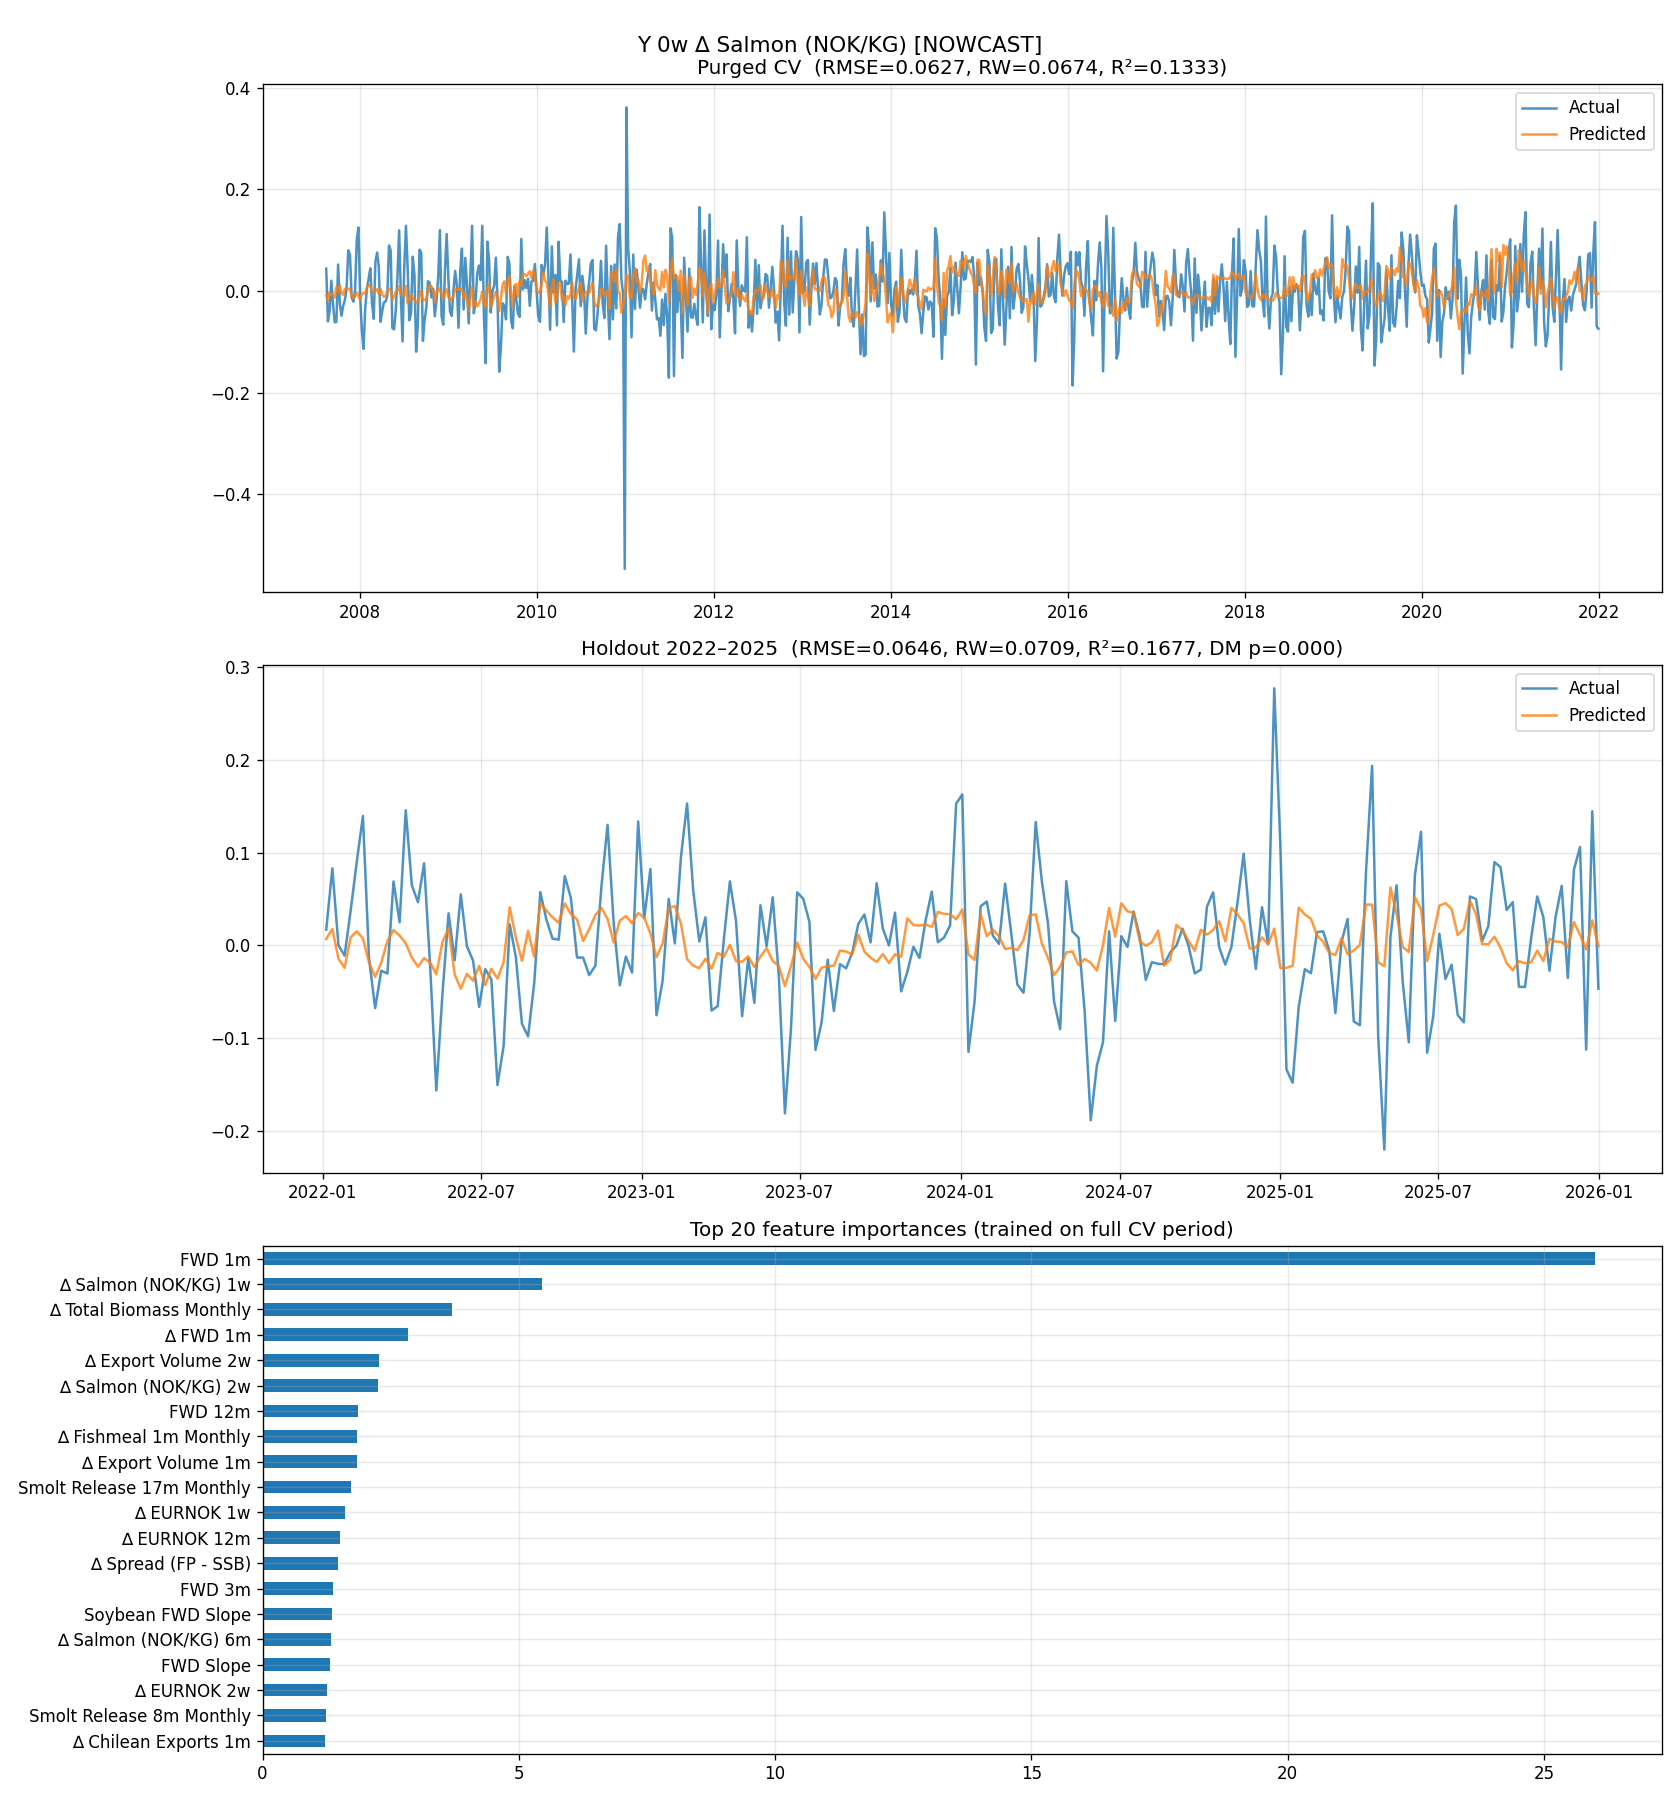
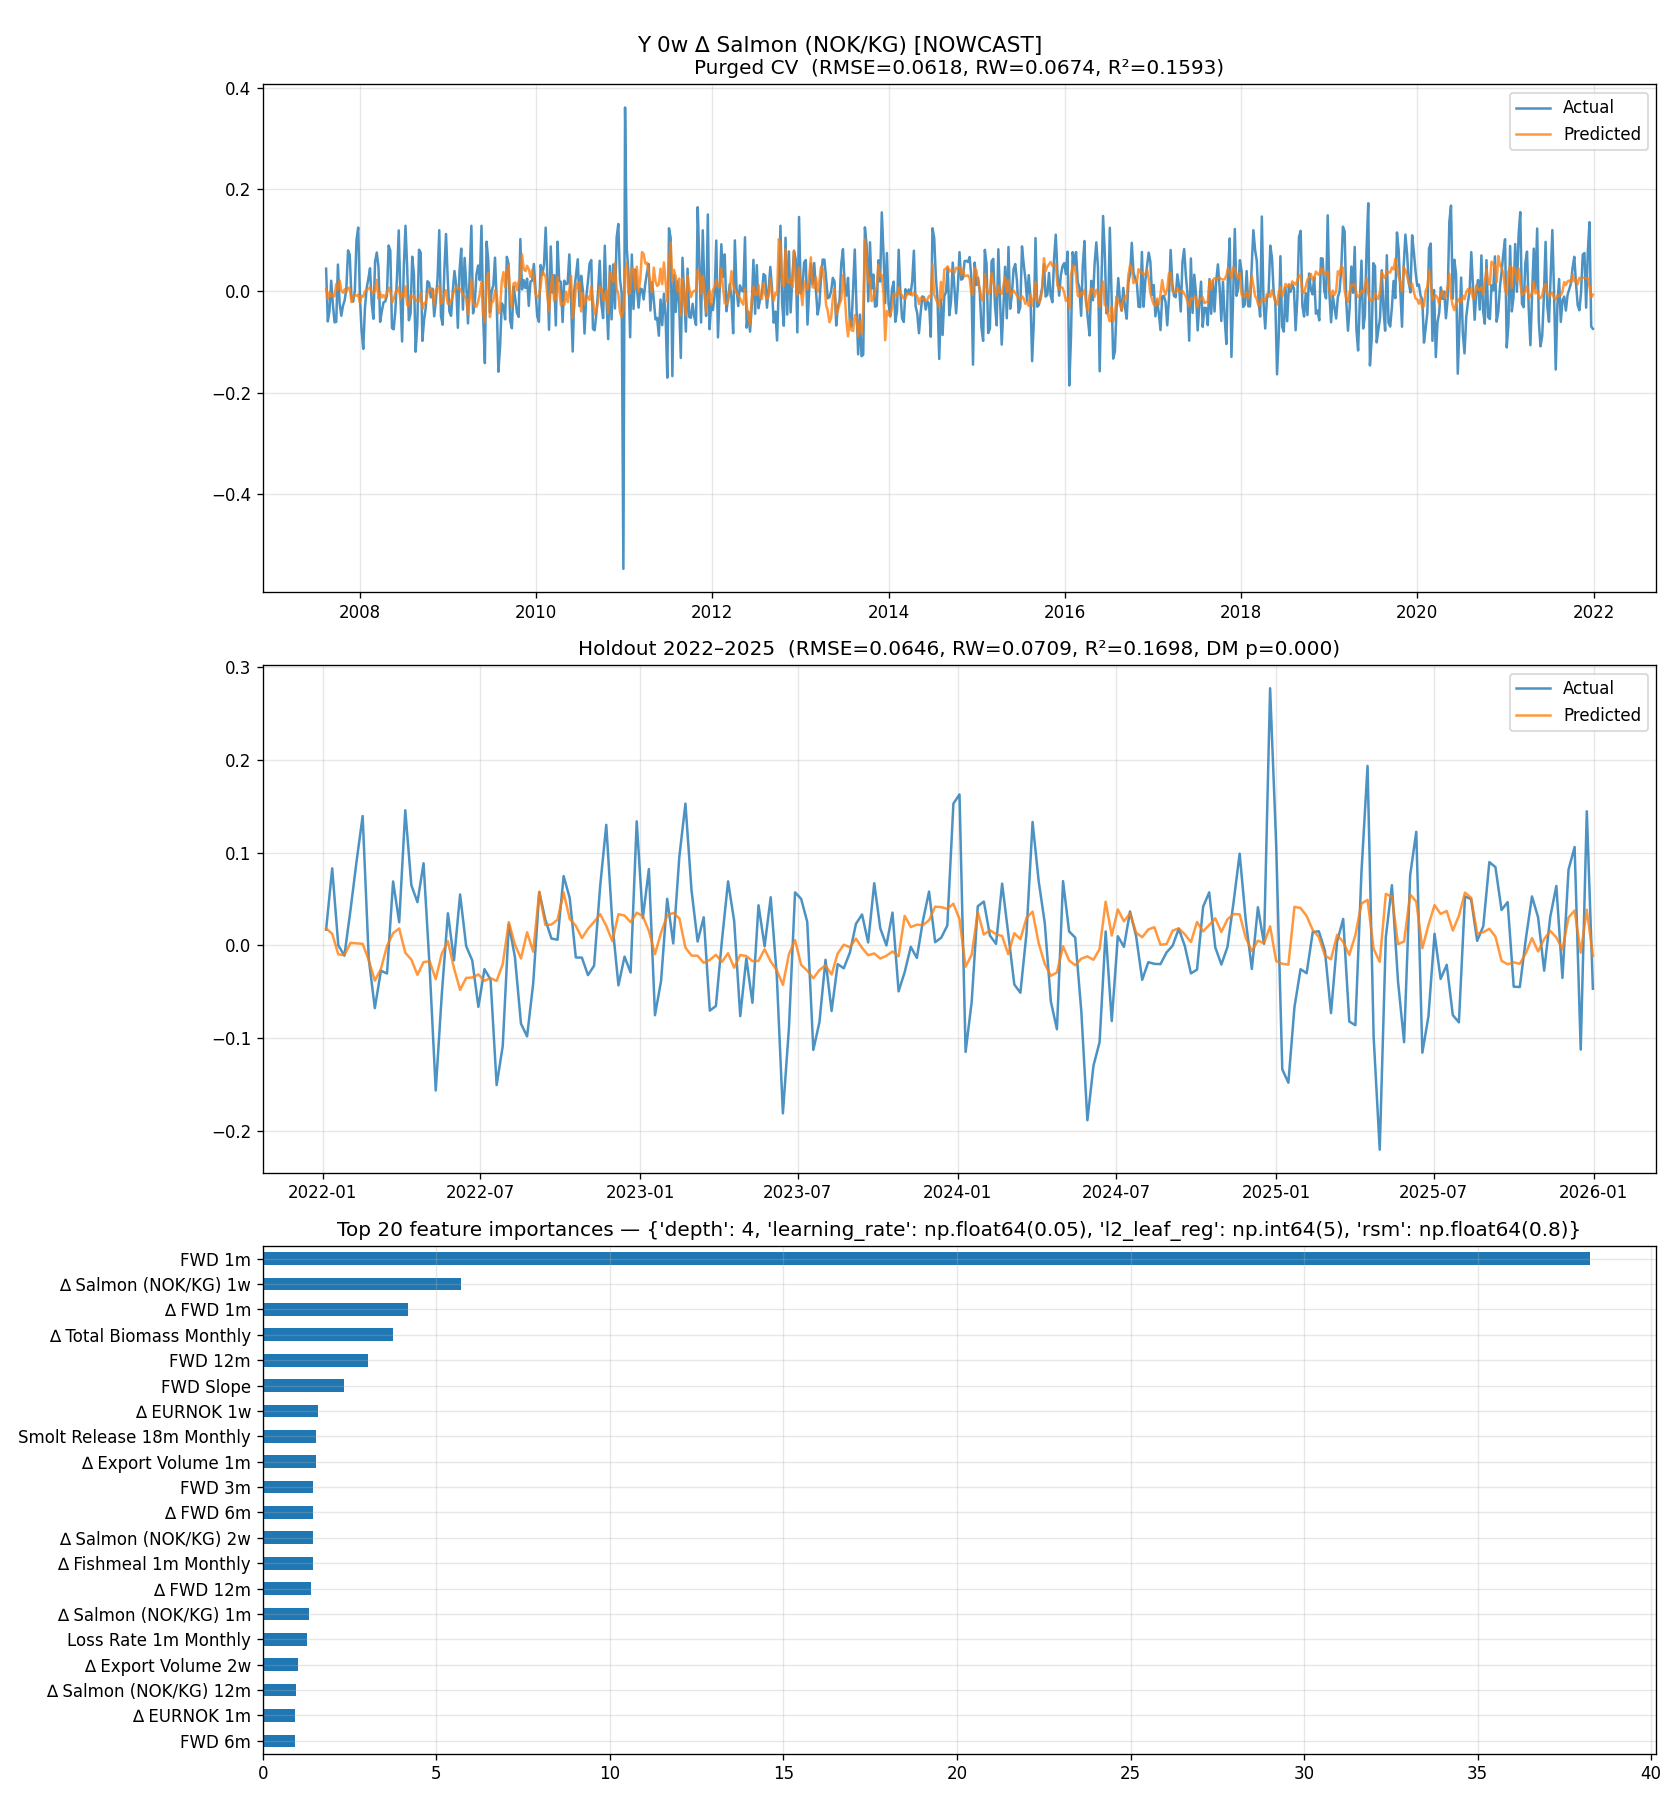
catboost v4

diff --git a/catboost_model.py b/catboost_model.py
@@ -1,7 +1,7 @@
 ##
 #  CatBoost model — all Y horizons
-#  Purged walk-forward CV (folds and purge window adjusted per horizon)
-#  Includes: random walk baseline, Diebold-Mariano test, early stopping
+#  Purged walk-forward CV with early stopping
+#  Includes: random walk baseline, Diebold-Mariano test
 #  Final holdout: 2022–2025
 #
 #  Note: Y 0w is a nowcast (S_t and F_t are Wednesday closes, simultaneously
@@ -33,41 +33,34 @@ os.makedirs("Results", exist_ok=True)
 
 ## ── Horizon config ───────────────────────────────────────────────────────────
 HORIZON_CONFIG = {
-    "0w":  {"purge_weeks":  0, "n_folds": 10},
-    "1w":  {"purge_weeks":  1, "n_folds": 10},
-    "2w":  {"purge_weeks":  2, "n_folds": 10},
-    "1m":  {"purge_weeks":  4, "n_folds": 10},
-    "3m":  {"purge_weeks": 13, "n_folds":  8},
-    "6m":  {"purge_weeks": 26, "n_folds":  6},
-    "12m": {"purge_weeks": 52, "n_folds":  4},  # Note: only ~2 valid CV folds — CV R² unreliable; rely on holdout
+    "0w":  {"purge_weeks":  0, "n_folds": 10, "depth": 4},
+    "1w":  {"purge_weeks":  1, "n_folds": 10, "depth": 4},
+    "2w":  {"purge_weeks":  2, "n_folds": 10, "depth": 4},
+    "1m":  {"purge_weeks":  4, "n_folds": 10, "depth": 5},
+    "3m":  {"purge_weeks": 13, "n_folds":  8, "depth": 5},
+    "6m":  {"purge_weeks": 26, "n_folds":  6, "depth": 6},
+    "12m": {"purge_weeks": 52, "n_folds":  4, "depth": 5},  # only ~2 valid CV folds — rely on holdout
 }
 
-def parse_horizon(target):
-    m = re.search(r"Y (\d+(?:w|m)) ", target)
-    return m.group(1) if m else "0w"
-
 ## ── CatBoost settings ────────────────────────────────────────────────────────
-CB_PARAMS = dict(
-    iterations          = 1000,     # higher ceiling; early stopping will cut this
-    learning_rate       = 0.05,
-    depth               = 6,
+CB_BASE = dict(
+    iterations          = 1000,
     loss_function       = "RMSE",
     random_seed         = 42,
     verbose             = False,
     allow_writing_files = False,
 )
 EARLY_STOP_ROUNDS = 50
-VAL_FRAC          = 0.15            # fraction of training used as early-stopping validation
+VAL_FRAC          = 0.15
 
-## ── Diebold-Mariano test (MSE loss, RW predicts 0 log return) ────────────────
+def parse_horizon(target):
+    m = re.search(r"Y (\d+(?:w|m)) ", target)
+    return m.group(1) if m else "0w"
+
+## ── Diebold-Mariano test ─────────────────────────────────────────────────────
 def diebold_mariano(actual, pred_model):
-    """
-    H0: equal MSE vs random walk (which predicts 0 log return).
-    Negative DM stat → model is more accurate than RW.
-    Returns (dm_stat, p_value).
-    """
     e_model = actual - pred_model
-    e_rw    = actual                        # RW error = actual - 0
+    e_rw    = actual
     d       = e_model**2 - e_rw**2
     n       = len(d)
     dm_stat = np.mean(d) / (np.std(d, ddof=1) / np.sqrt(n))
@@ -75,11 +68,7 @@ def diebold_mariano(actual, pred_model):
     return dm_stat, p_value
 
 ## ── Purged walk-forward CV ───────────────────────────────────────────────────
-def purged_wf_cv(data, target, features, purge_weeks, n_folds):
-    """
-    Expanding-window walk-forward CV with purging and early stopping.
-    Early stopping uses the last VAL_FRAC of each training slice as validation.
-    """
+def purged_wf_cv(data, target, features, purge_weeks, n_folds, depth):
     n         = len(data)
     fold_size = n // n_folds
     results   = []
@@ -98,15 +87,14 @@ def purged_wf_cv(data, target, features, purge_weeks, n_folds):
         if len(train) < 50 or len(test) == 0:
             continue
 
-        # Early stopping: hold out last VAL_FRAC of training
         val_size    = max(int(len(train) * VAL_FRAC), 10)
         train_inner = train.iloc[:-val_size]
         val_inner   = train.iloc[-val_size:]
 
-        model = CatBoostRegressor(**CB_PARAMS)
+        model = CatBoostRegressor(**CB_BASE, depth=depth)
         model.fit(
             train_inner[features], train_inner[target],
-            eval_set   = (val_inner[features].values, val_inner[target].values),
+            eval_set              = (val_inner[features].values, val_inner[target].values),
             early_stopping_rounds = EARLY_STOP_ROUNDS,
         )
         preds = model.predict(test[features])
@@ -124,10 +112,11 @@ def purged_wf_cv(data, target, features, purge_weeks, n_folds):
 summary = []
 
 for target in Y_COLS:
-    horizon   = parse_horizon(target)
-    cfg       = HORIZON_CONFIG.get(horizon, {"purge_weeks": 0, "n_folds": 10})
-    purge_wks = cfg["purge_weeks"]
-    n_folds   = cfg["n_folds"]
+    horizon    = parse_horizon(target)
+    cfg        = HORIZON_CONFIG.get(horizon, {"purge_weeks": 0, "n_folds": 10, "depth": 6})
+    purge_wks  = cfg["purge_weeks"]
+    n_folds    = cfg["n_folds"]
+    depth      = cfg["depth"]
     is_nowcast = (horizon == "0w")
 
     cv_data   = df[df["Date"] < HOLDOUT_START].dropna(subset=[target]).copy().reset_index(drop=True)
@@ -138,10 +127,10 @@ for target in Y_COLS:
         continue
 
     label = f"{target}  [NOWCAST]" if is_nowcast else target
-    print(f"\n{label}  (horizon={horizon}, purge={purge_wks}w, folds={n_folds})")
+    print(f"\n{label}  (horizon={horizon}, purge={purge_wks}w, folds={n_folds}, depth={depth})")
 
     ## ── Purged CV ────────────────────────────────────────────────────────────
-    fold_results = purged_wf_cv(cv_data, target, ALL_FEAT, purge_wks, n_folds)
+    fold_results = purged_wf_cv(cv_data, target, ALL_FEAT, purge_wks, n_folds, depth)
 
     if fold_results:
         cv_preds   = np.concatenate([f["preds"]   for f in fold_results])
@@ -149,7 +138,7 @@ for target in Y_COLS:
         cv_dates   = np.concatenate([f["dates"]   for f in fold_results])
 
         cv_rmse    = np.sqrt(mean_squared_error(cv_actuals, cv_preds))
-        cv_rw_rmse = np.sqrt(np.mean(cv_actuals**2))          # RW predicts 0
+        cv_rw_rmse = np.sqrt(np.mean(cv_actuals**2))
         cv_r2      = r2_score(cv_actuals, cv_preds)
         cv_hitrate = np.mean(np.sign(cv_preds) == np.sign(cv_actuals))
         print(f"  CV       RMSE={cv_rmse:.4f}  RW_RMSE={cv_rw_rmse:.4f}  "
@@ -160,12 +149,12 @@ for target in Y_COLS:
         cv_preds, cv_actuals, cv_dates = [], [], []
         print("  CV       insufficient data for all folds")
 
-    ## ── Final model: train on full CV period, evaluate on holdout ────────────
-    val_size_final    = max(int(len(cv_data) * VAL_FRAC), 10)
-    cv_train_final    = cv_data.iloc[:-val_size_final]
-    cv_val_final      = cv_data.iloc[-val_size_final:]
+    ## ── Final model — trained on full CV period ──────────────────────────────
+    val_size_final = max(int(len(cv_data) * VAL_FRAC), 10)
+    cv_train_final = cv_data.iloc[:-val_size_final]
+    cv_val_final   = cv_data.iloc[-val_size_final:]
 
-    final_model = CatBoostRegressor(**CB_PARAMS)
+    final_model = CatBoostRegressor(**CB_BASE, depth=depth)
     final_model.fit(
         cv_train_final[ALL_FEAT], cv_train_final[target],
         eval_set              = (cv_val_final[ALL_FEAT].values, cv_val_final[target].values),
@@ -185,21 +174,21 @@ for target in Y_COLS:
           f"DM={dm_stat:.2f}  p={dm_p:.3f}")
 
     summary.append({
-        "Y":            target,
-        "Horizon":      horizon,
-        "Nowcast":      is_nowcast,
-        "CV RMSE":      cv_rmse,
-        "CV RW RMSE":   cv_rw_rmse,
-        "CV R2":        cv_r2,
-        "CV Hit":       cv_hitrate,
-        "Hold RMSE":    hold_rmse,
-        "Hold RW RMSE": hold_rw_rmse,
-        "Hold R2":      hold_r2,
-        "Hold Hit":     hold_hitrate,
-        "Hold DM":      dm_stat,
-        "Hold DM p":    dm_p,
-        "n_train":      len(cv_data),
-        "n_holdout":    len(hold_data),
+        "Y":             target,
+        "Horizon":       horizon,
+        "Nowcast":       is_nowcast,
+        "CV RMSE":       cv_rmse,
+        "CV RW RMSE":    cv_rw_rmse,
+        "CV R2":         cv_r2,
+        "CV Hit":        cv_hitrate,
+        "Hold RMSE":     hold_rmse,
+        "Hold RW RMSE":  hold_rw_rmse,
+        "Hold R2":       hold_r2,
+        "Hold Hit":      hold_hitrate,
+        "Hold DM":       dm_stat,
+        "Hold DM p":     dm_p,
+        "n_train":       len(cv_data),
+        "n_holdout":     len(hold_data),
     })
 
     ## ── Feature importance ───────────────────────────────────────────────────
@@ -233,7 +222,7 @@ for target in Y_COLS:
     ax_idx += 1
 
     importance.head(20).sort_values().plot(kind="barh", ax=axes[ax_idx])
-    axes[ax_idx].set_title("Top 20 feature importances (trained on full CV period)")
+    axes[ax_idx].set_title(f"Top 20 feature importances (depth={depth})")
     axes[ax_idx].grid(True, alpha=0.3)
 
     plt.tight_layout()
